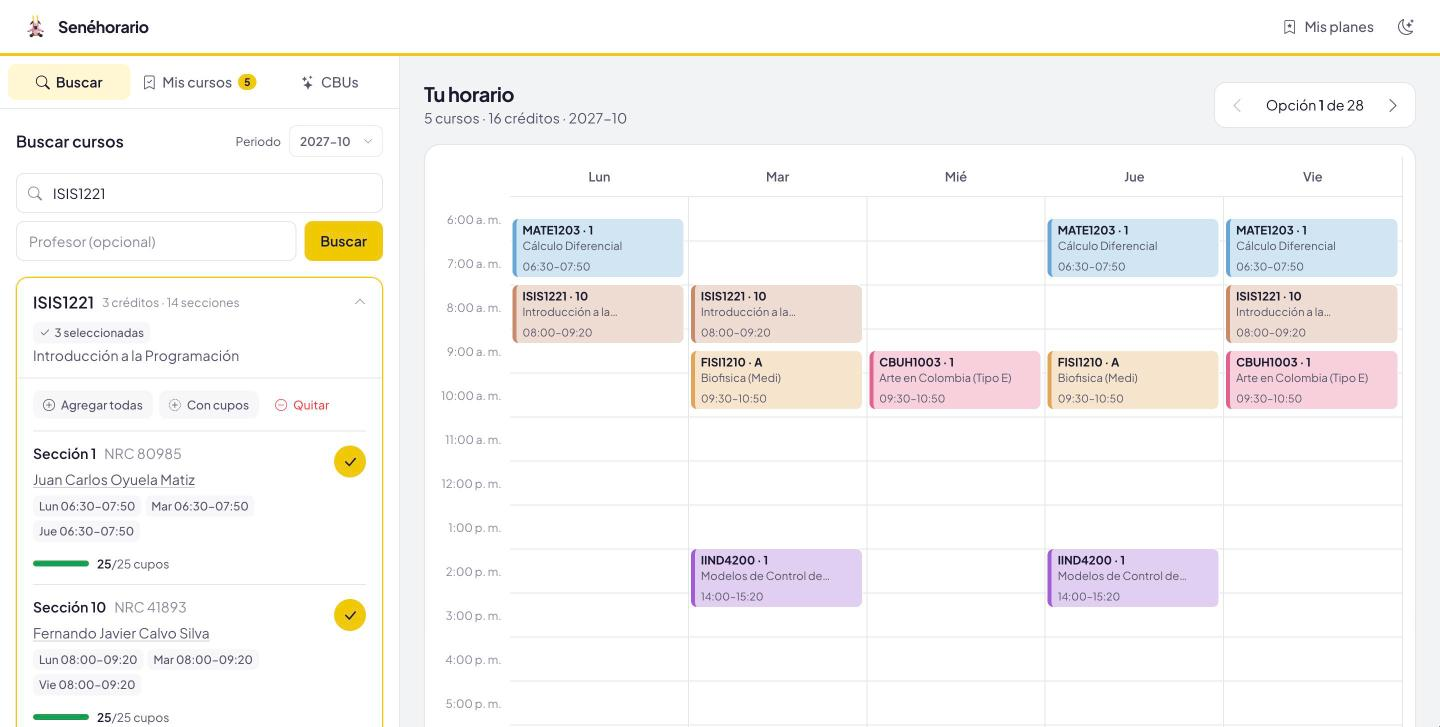
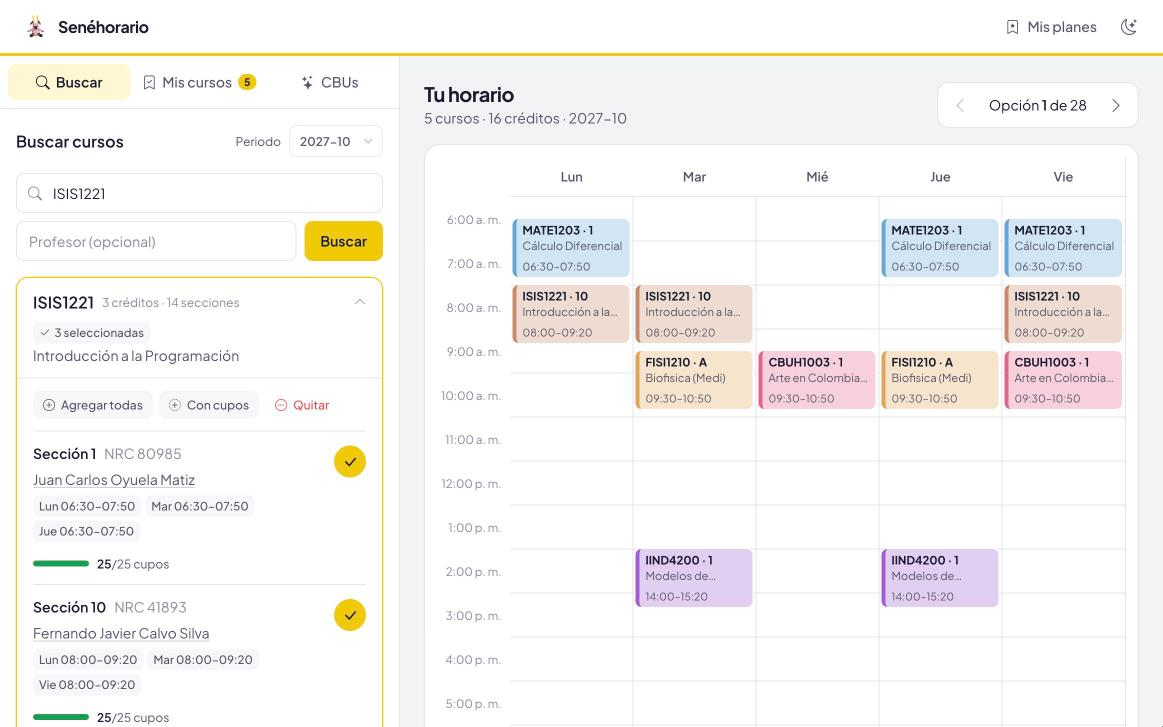
Landing: drop the duplicate hero button, use a 16:10 screenshot
The sticky header already has "Comienza". A 16:10 screenshot and a
slightly wider frame make the laptop look like a laptop again and give
the hero back its height.

diff --git a/src/app/page.tsx b/src/app/page.tsx
@@ -52,12 +52,6 @@ export default function LandingPage() {
                   <strong>Construye tu horario ideal</strong> explorando combinaciones de cursos,
                   evitando conflictos y optimizando tu semestre.
                 </p>
-                <Link
-                  href="/planning"
-                  className="inline-flex w-fit items-center gap-2 self-start rounded-xl bg-primary px-5 py-3 font-semibold text-white no-underline shadow-sm transition hover:-translate-y-px hover:bg-primary-light dark:bg-accent dark:text-on-accent dark:hover:bg-accent-hover"
-                >
-                  Comienza a planear <i className="bi bi-arrow-right" aria-hidden="true"></i>
-                </Link>
               </div>
               <div className="lp-col-lg-6 hidden! min-[992px]:block! text-center!">
                 <div className="hero-visual">

diff --git a/src/app/landing.css b/src/app/landing.css
@@ -645,7 +645,7 @@
   /* Laptop frame around the planner screenshot */
   .laptop {
     width: 100%;
-    max-width: 560px;
+    max-width: 600px;
     margin: 0 auto;
   }
 
